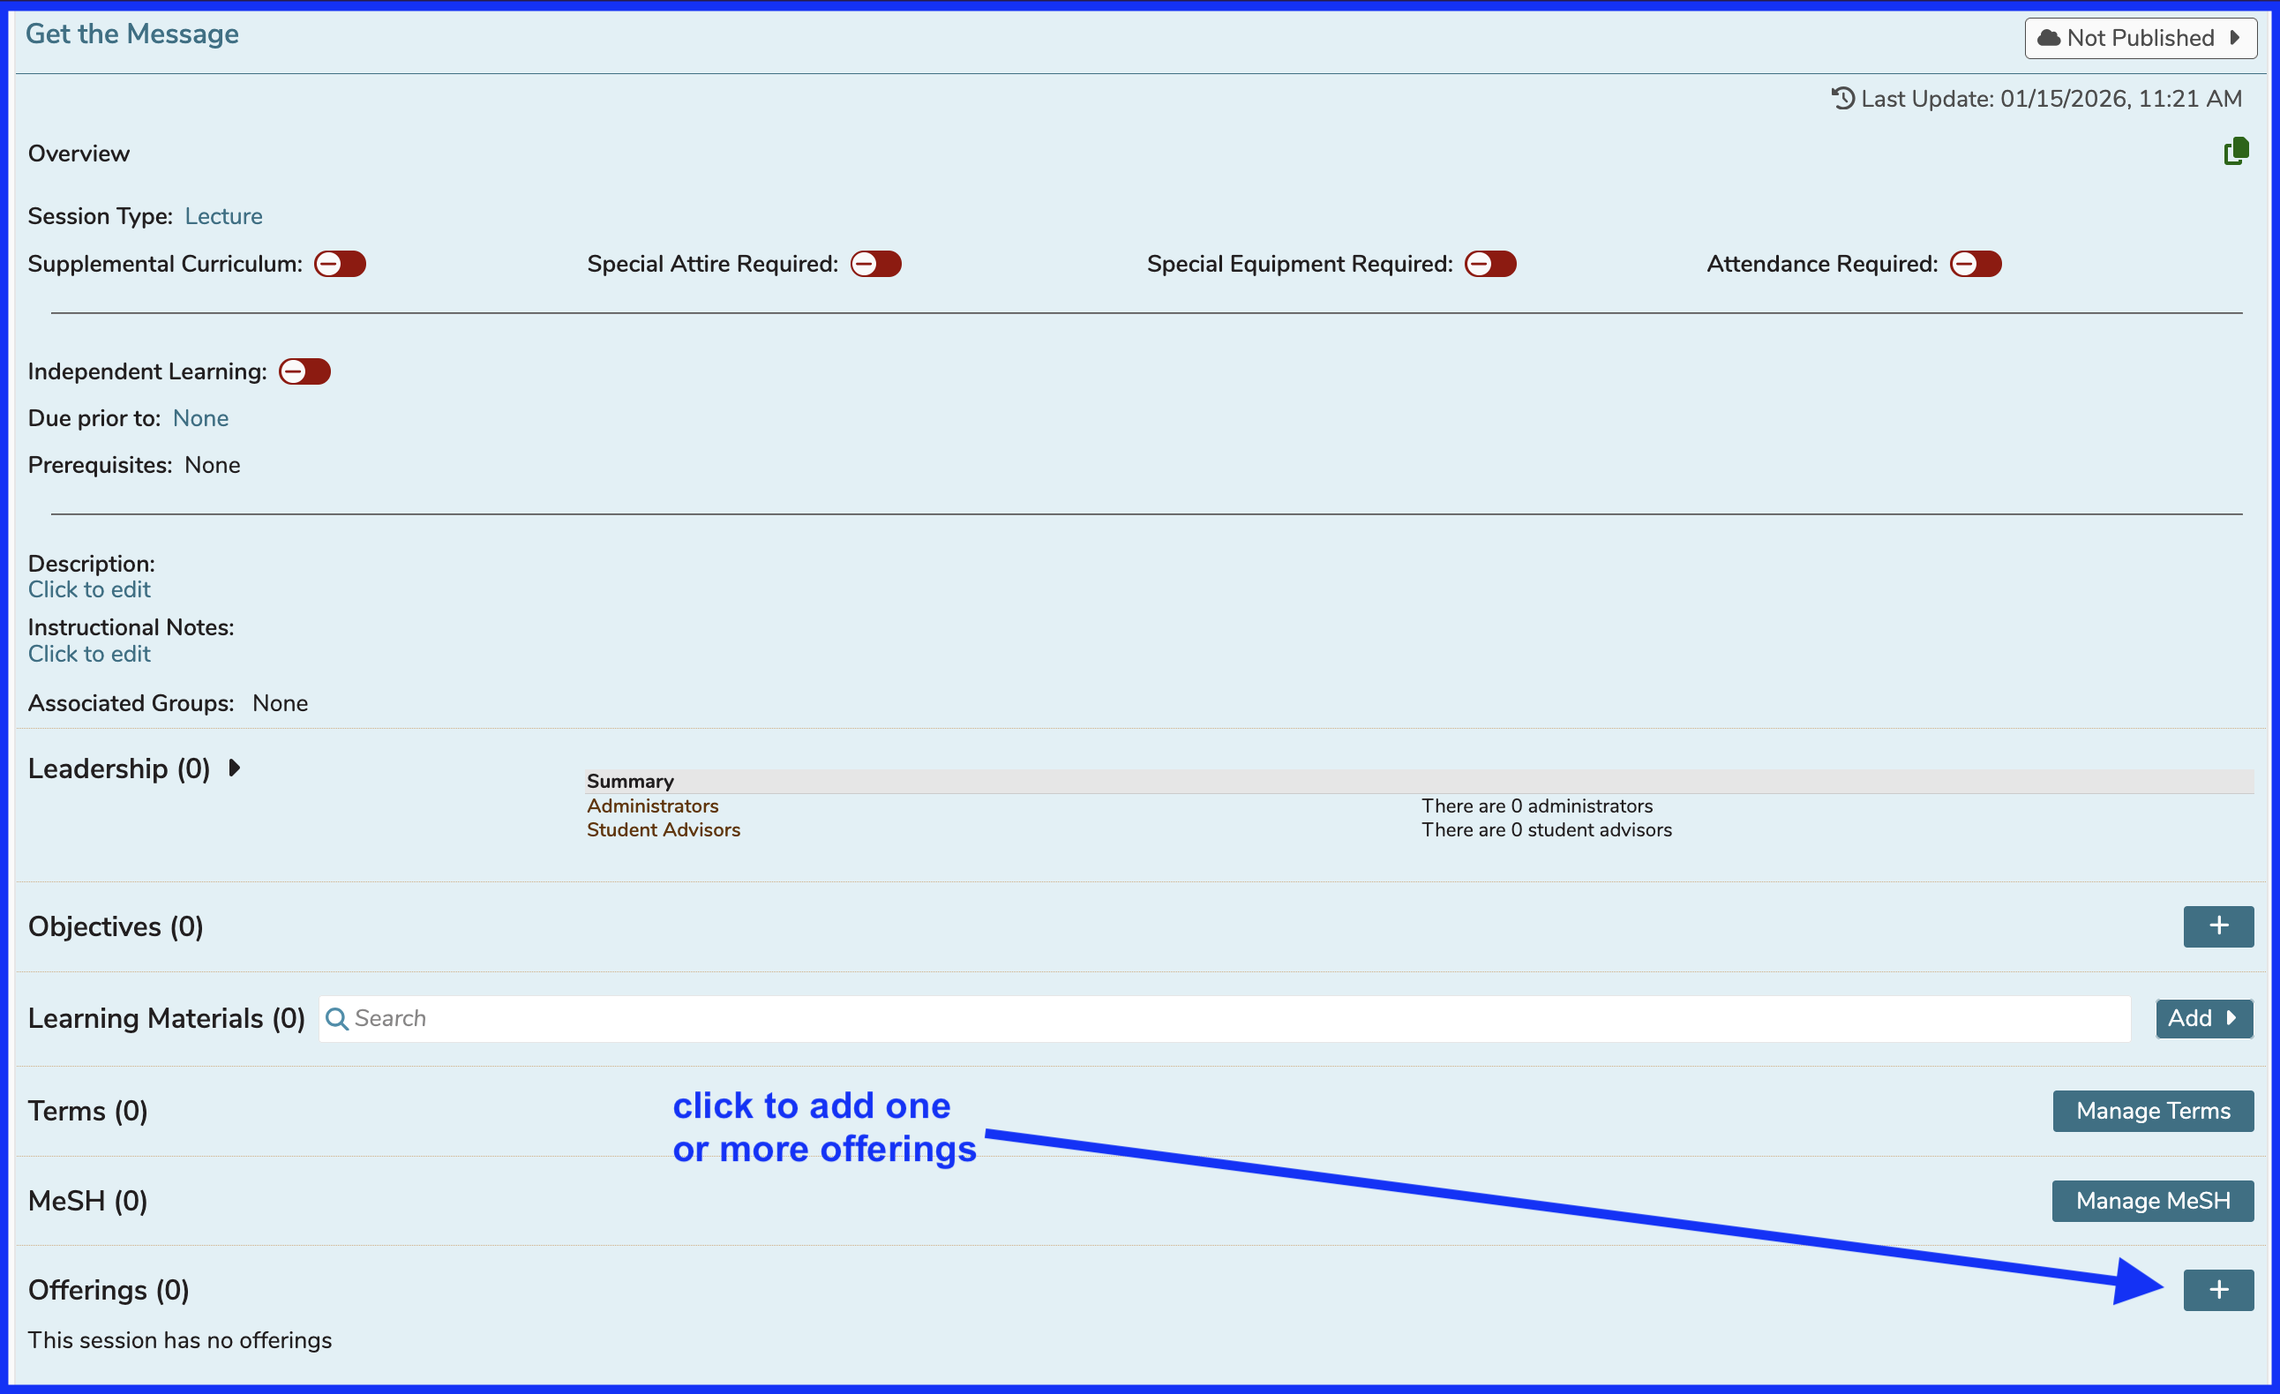
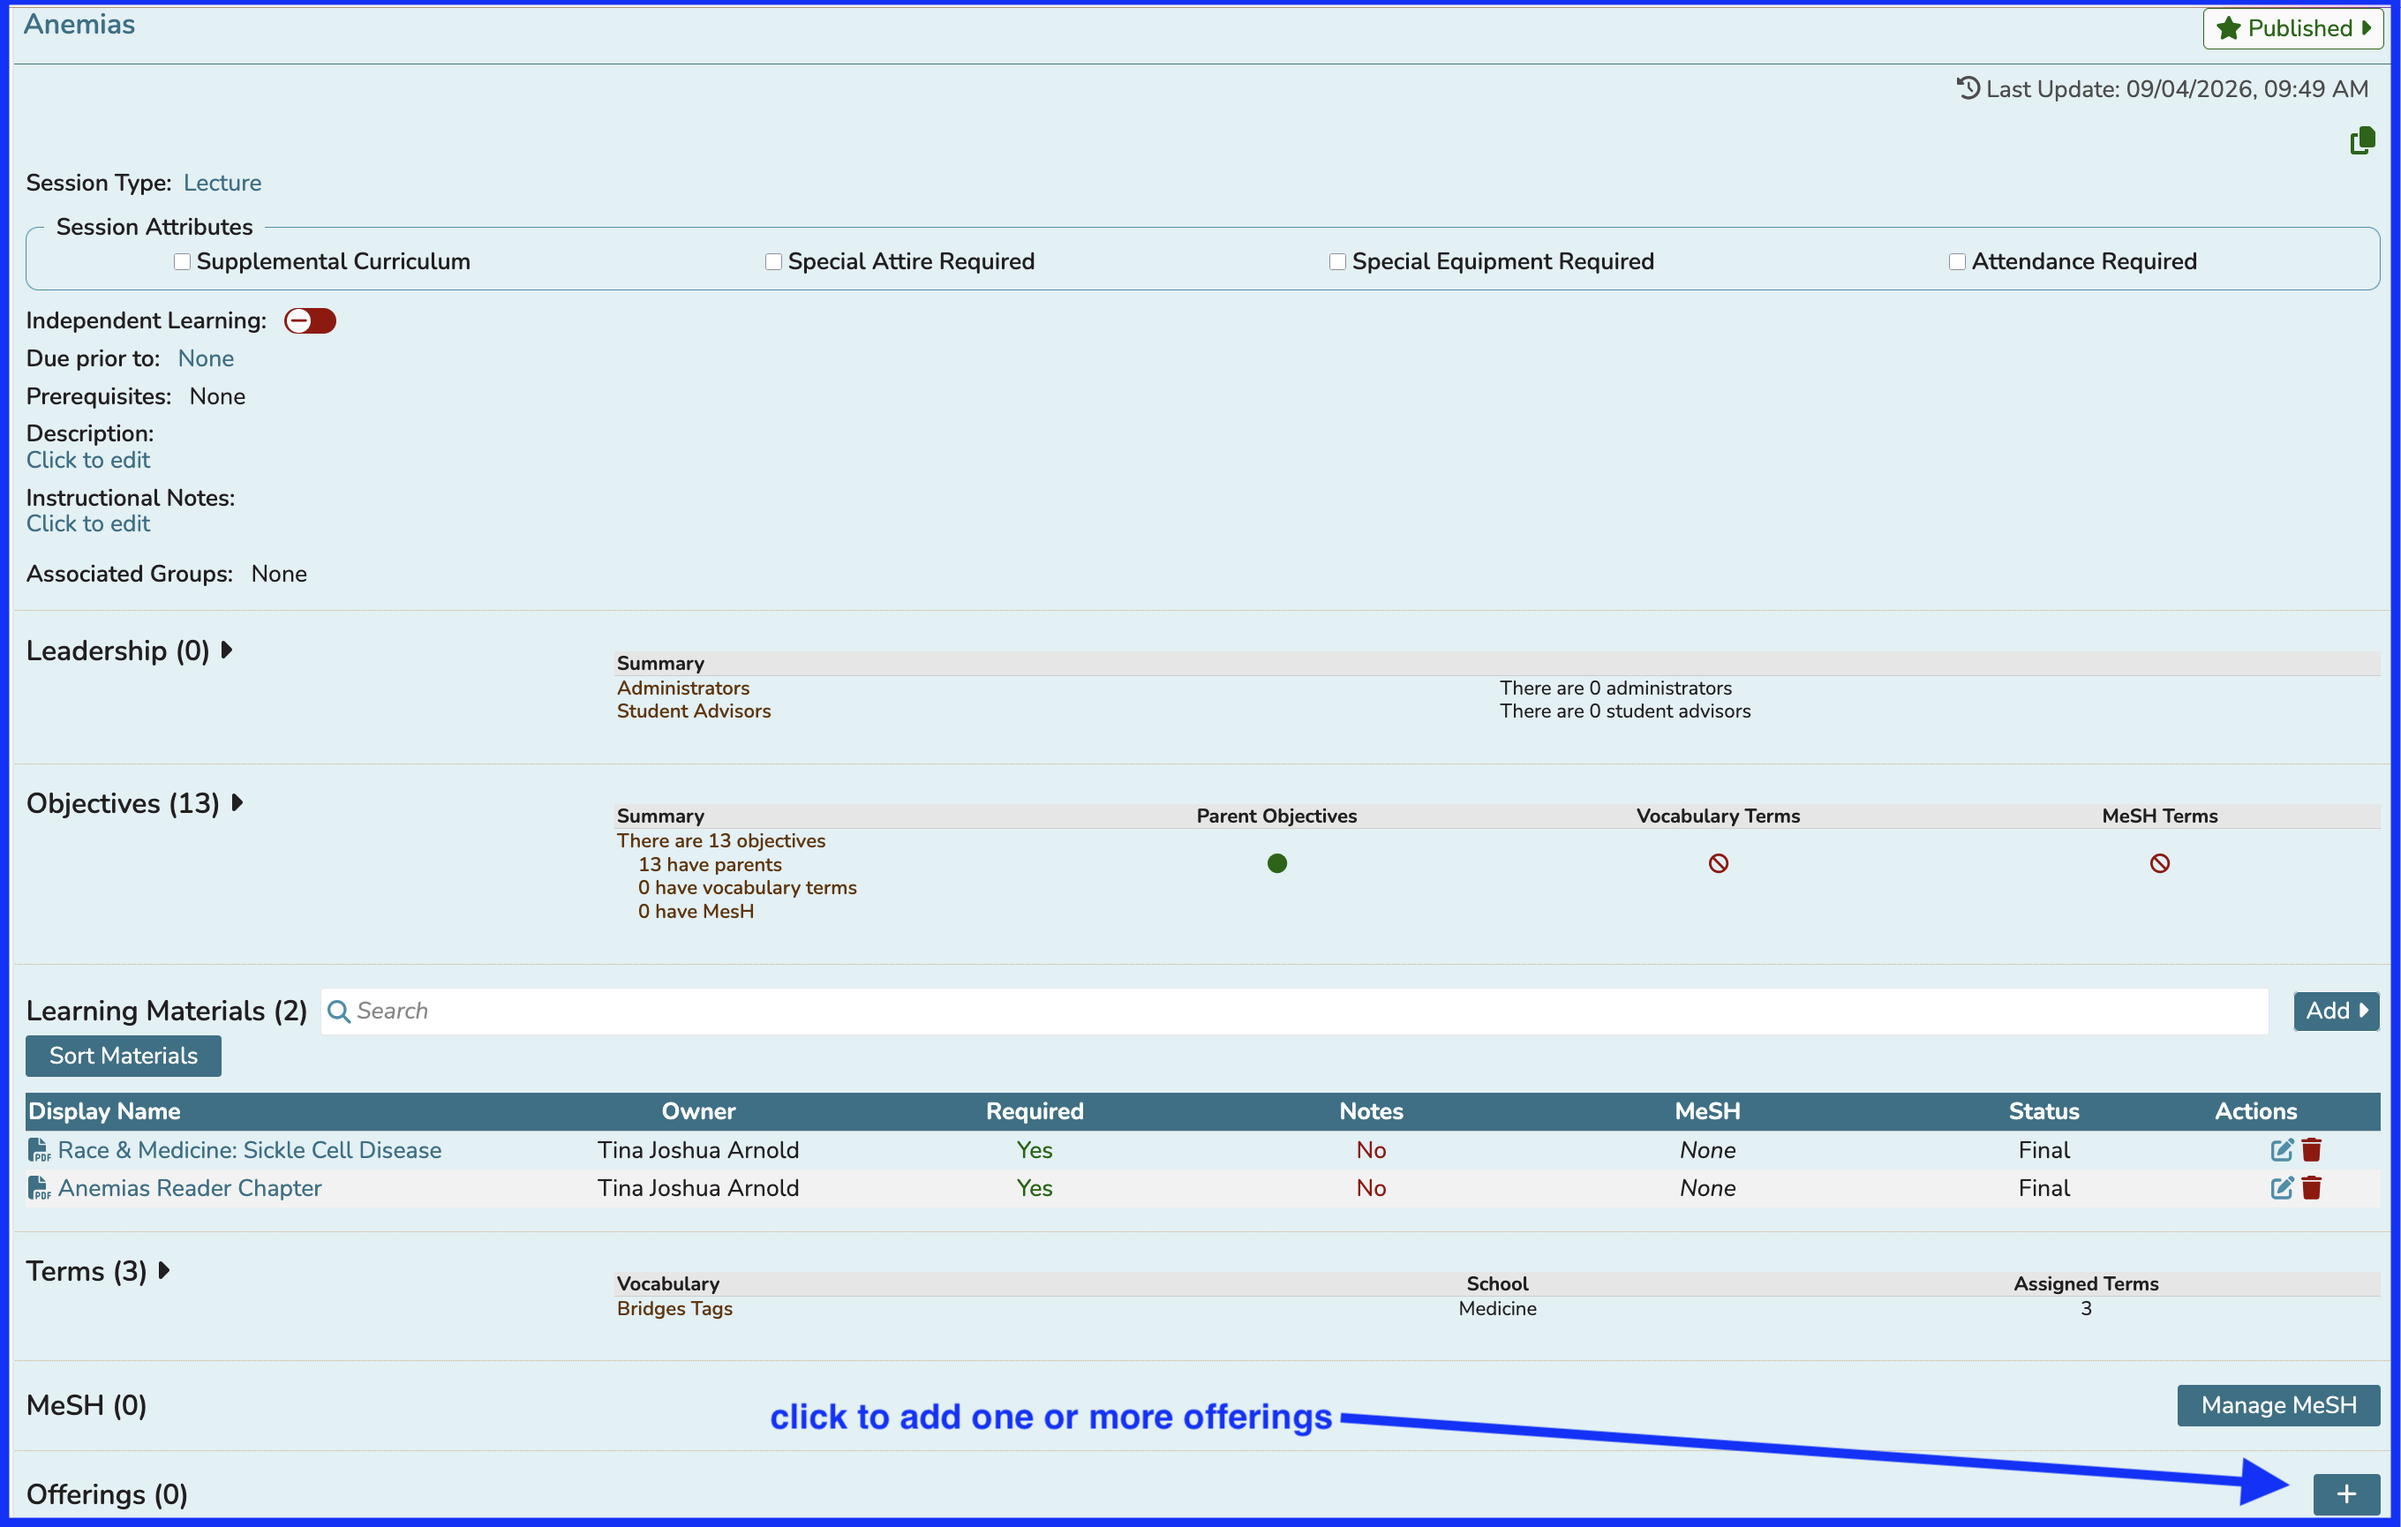
text updated and first image

diff --git a/courses-and-sessions/offerings/README.md b/courses-and-sessions/offerings/README.md
@@ -28,7 +28,7 @@ Offerings can be created as ...
 * [**Recurring Events**](https://iliosproject.gitbook.io/ilios-user-guide/courses-and-sessions/offerings/recurring-event)**:** A recurring event that occurs multiple times for a specified number of weeks.  This is activated by utilizing the "Make Recurring" slider to toggle this functionality to the "On" position.
 * [**Multi-Day Offerings**](https://iliosproject.gitbook.io/ilios-user-guide/courses-and-sessions/offerings/multi-day-offerings)**:** Offerings that start on one day and continue on until the next or a future day are considered multi-day offerings. They are tracked in a slightly different manner than other offerings in Ilios.
 
-Click to add a new offering as shown by the arrow in the screen shot below. First, an existing course and session must have been selected.
+Click to add a new offering as shown by the arrow in the screen shot below. First, an existing course and session must be selected.
 
 ![click to add offerings](../../images/offerings_README/click_to_add_offerings.png)
 
